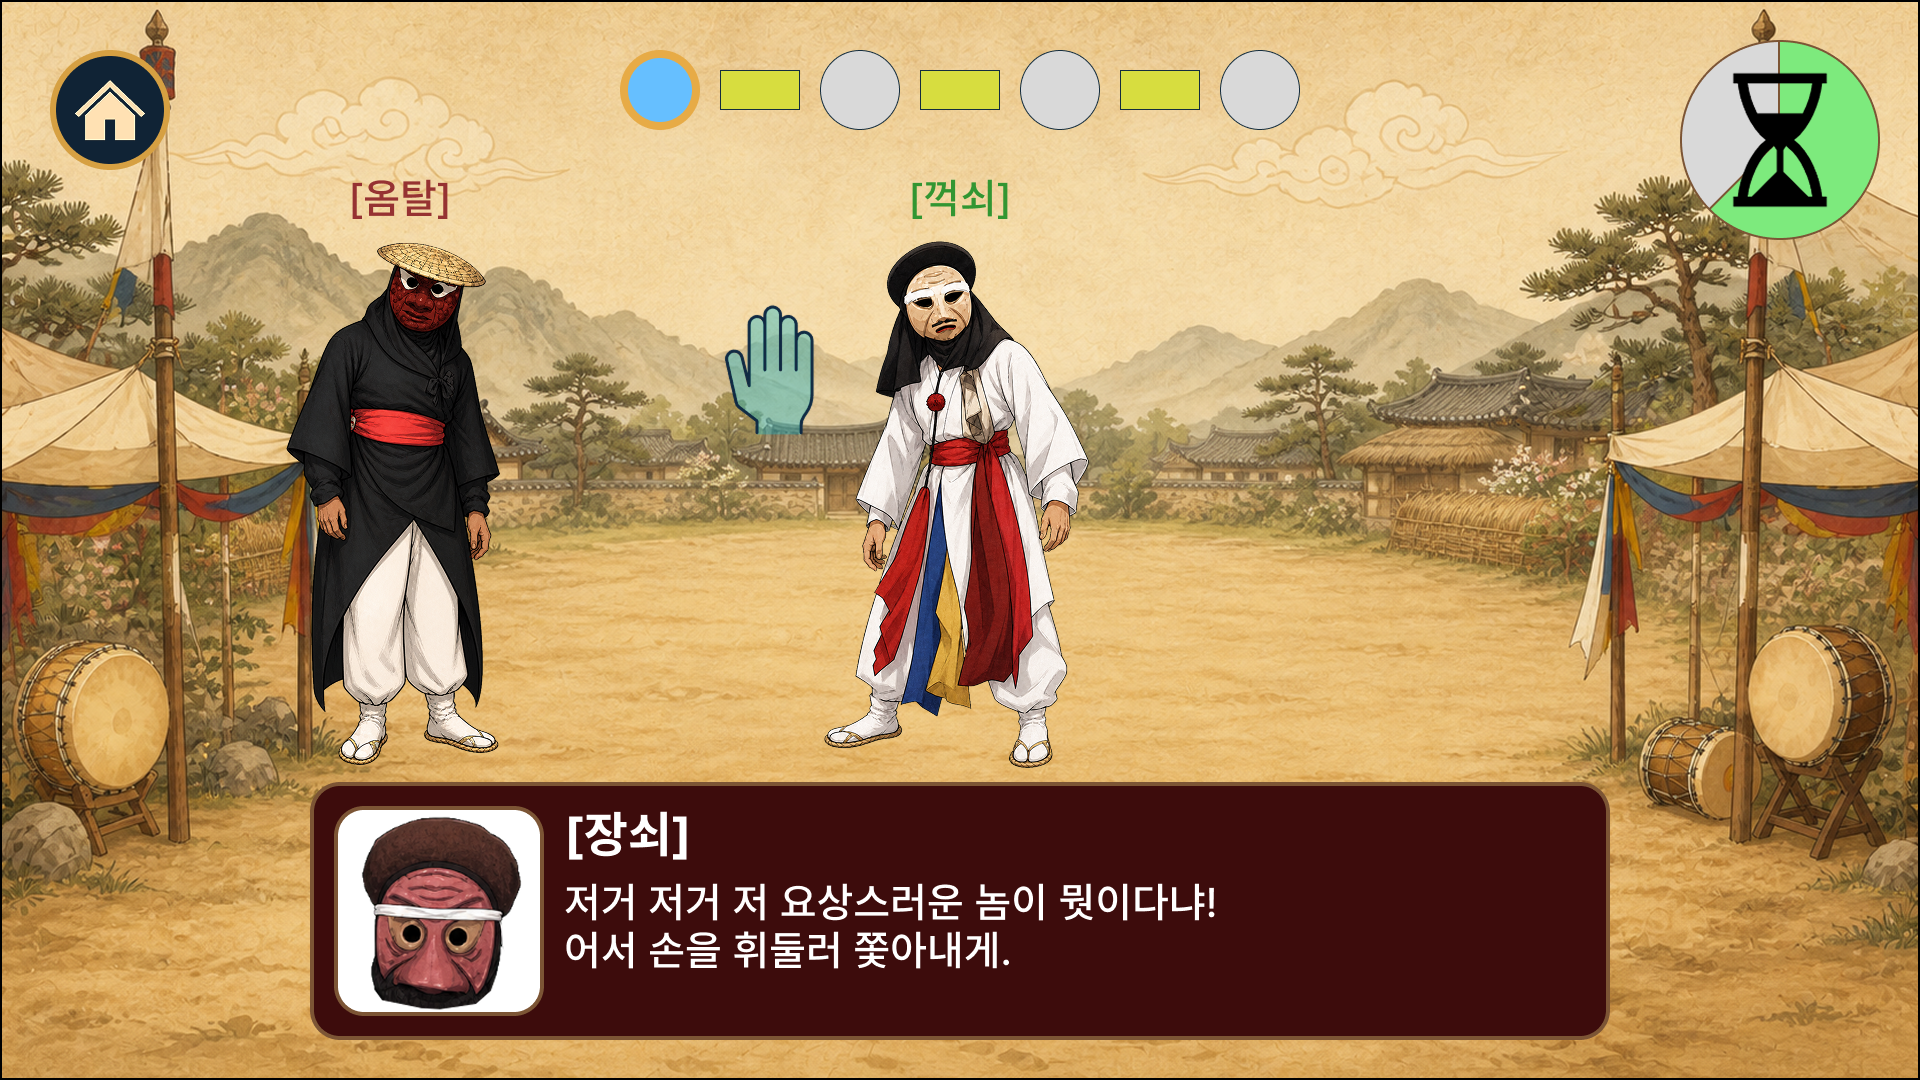
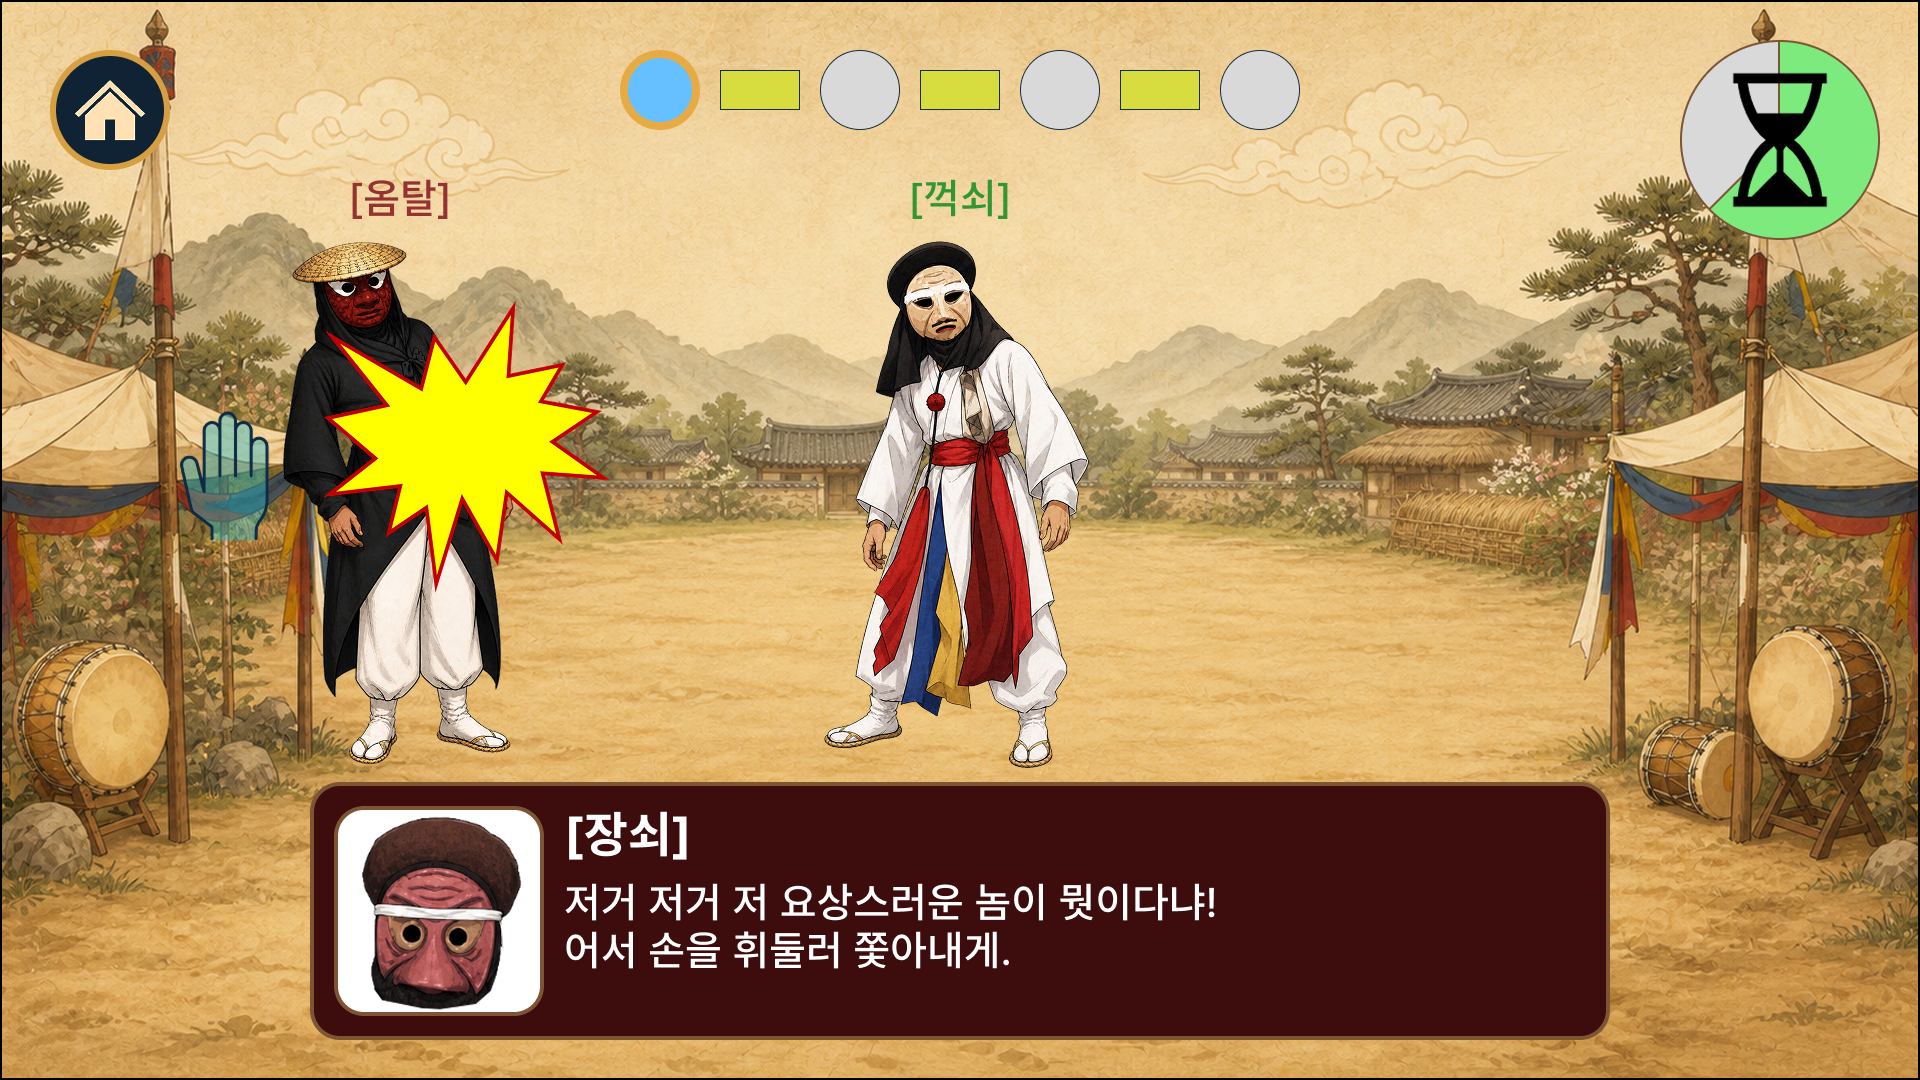
update: 작업 산출물과 이미지 자산 반영

Changed region(s): [[0.0938, 0.2139, 0.3125, 0.7028], [0.375, 0.275, 0.4375, 0.3972]]

diff --git a/05_산출물/킥오프/무형문화유산 AI 과제 킥오프.md b/05_산출물/킥오프/무형문화유산 AI 과제 킥오프.md
@@ -5,7 +5,7 @@ status: draft
 tags: [project, kocca, 킥오프, 발표, 셀빅, 1차연도, 2차연도]
 sources: [2. 연구개발의 목표 및 내용, 4. 마일스톤 체계 및 수행계획, 컨소시엄 회의록 - 2026-06-22, 큐랩셀빅 사전회의 - 2026-06-22, 1차연도 셀빅 개발 준비자료]
 created: 2026-07-01
-updated: 2026-07-01
+updated: 2026-09-11
 ---
 
 > 셀빅 사내 킥오프 발표 문서. 무형문화유산 AI 과제가 무엇이고, 셀빅이 2년(1단계)에 걸쳐 무엇을 어떤 기술로 언제 만들지를 정리함.
@@ -57,14 +57,14 @@ center "지능형 4D 디지털 도제 플랫폼"
 
 5개 연구기관과 외부 데이터 권리자로 구성됨. 셀빅은 남사당놀이를 전담하되, 핵심 AI 일부는 다른 기관이 만든 결과를 받아 씀 ([[컨소시엄 구성 개요]]).
 
-| 기관 | 구분 | 과제 내 역할 |
-|---|---|---|
-| ㈜큐랩 | 주관 | 플랫폼 통합 총괄, 동작 인식 엔진, 택견 전담, 사업화 총괄 |
-| ㈜셀빅 | 공동1 | **남사당놀이 전담**, 생성형 서사, 아바타 제어, 실감 체험 플랫폼 |
-| KETI(한국전자기술연구원) | 공동2 | 멀티모달 데이터, 4D 복원, 특징 추출, 모션 생성, 특화 LLM |
-| 연세대학교 | 공동3 | 단일 RGB 영상 3D 스켈레톤 추정, 모델 경량화 |
-| 용인대학교 | 공동4 | 택견 IP와 학습용 데이터셋 |
-| 남사당놀이보존회 | 외부 협력 | 남사당 원천 데이터 권리자. 컨소시엄 미포함, 셀빅의 협의 대상 |
+| 기관              | 구분    | 과제 내 역할                                 |
+| --------------- | ----- | --------------------------------------- |
+| ㈜큐랩             | 주관    | 플랫폼 통합 총괄, 동작 인식 엔진, 택견 전담, 사업화 총괄      |
+| ㈜셀빅             | 공동1   | **남사당놀이 전담**, 생성형 서사, 아바타 제어, 실감 체험 플랫폼 |
+| KETI(한국전자기술연구원) | 공동2   | 멀티모달 데이터, 4D 복원, 특징 추출, 모션 생성, 특화 LLM   |
+| 연세대학교           | 공동3   | 단일 RGB 영상 3D 스켈레톤 추정, 모델 경량화            |
+| 용인대학교           | 공동4   | 택견 IP와 학습용 데이터셋                         |
+| 남사당놀이보존회        | 외부 협력 | 남사당 원천 데이터 권리자. 컨소시엄 미포함, 셀빅의 협의 대상     |
 
 - **협력 기관 제공 기술 [확정]**: 영상에서 3D 스켈레톤 추출은 연세대, 특징 추출과 모션 생성은 KETI가 맡음 ([[컨소시엄 회의록 - 2026-06-22#3.2 데이터와 LLM 역할]])
 - **회의 주기 [확정]**: 반기 1회 대면. 필요 시 별도 실무 회의 ([[컨소시엄 회의록 - 2026-06-22#2. 핵심 합의]])

diff --git a/99_Logs/log.md b/99_Logs/log.md
@@ -7,6 +7,16 @@ updated: 2026-09-11
 
 # 작업 로그
 
+## [2026-09-11] update | 미커밋 산출물과 이미지 자산 일괄 반영
+
+- 사용자가 작업 트리에 남아 있는 변경사항을 모두 커밋하고 `origin/main`에 푸시하도록 요청함
+- 사용자 작성 산출물 2개, 수정 이미지 3개, 새 꼭두각시 이미지 7개와 `90_Temp/중단 후 콘솔 기록.txt`를 일괄 반영 대상으로 확정함
+- 커밋 전 자격증명 형태를 검색해 발견 0건이며, 개별 파일은 모두 3.2MB 이하임
+- 커밋 훅이 두 산출물 문서의 과거 `updated` 날짜를 차단하여 본문은 바꾸지 않고 `updated`만 2026-09-11로 갱신함
+- 산출물 본문은 사용자가 작성한 내용을 그대로 보존하고 별도 검수하지 않음
+- 자동 검사 결과: 넘버링 어긋남 0건, lint 오류 0건, 인용 어긋남 0건. 기존 경고 16건과 전사본 미지정 건너뜀 7건은 새로 생기지 않음
+- 수정 및 추가 파일: `05_산출물/시범콘텐츠/06_덜미 - 나만의 꼭두각시/덜미 - 나만의 꼭두각시 초안.md`, `05_산출물/킥오프/무형문화유산 AI 과제 킥오프.md`, `90_Temp/중단 후 콘솔 기록.txt`, `assets/시범콘텐츠/꼭두각시/` 이미지 7개, `assets/시범콘텐츠/탈놀음/` 이미지 2개, `assets/킥오프/1_2_컨소시엄과역할_v3.png`, `99_Logs/log.md`
+
 ## [2026-09-11] review | 역할 분리 12단계 외부 검수 판정
 
 - 사용자가 역할 분리 12단계 외부 검수 F-01부터 F-03까지의 반려를 G2 최종 판정으로 확정함. 수용 0건, 반려 3건이며 외부 검수 발견에 따른 본문 수정은 없음

diff --git a/05_산출물/시범콘텐츠/06_덜미 - 나만의 꼭두각시/덜미 - 나만의 꼭두각시 초안.md b/05_산출물/시범콘텐츠/06_덜미 - 나만의 꼭두각시/덜미 - 나만의 꼭두각시 초안.md
@@ -4,5 +4,41 @@ type: project
 status: draft
 tags: [project, kocca, 시범콘텐츠, 덜미]
 created: 2026-09-03
-updated: 2026-09-03
+updated: 2026-09-11
 ---
+dhl모션 연동 시스템
+
+- Why
+	- 남사당놀이 덜미 체험 콘텐츠 개발
+		- 무형문화유산의 형식과 포함된 의미를 사용자와 실시간으로 상호작용하며 체험 및 학습할 수 있어야 함
+- How
+	- 조작 체험이 아닌 조작 원리 학습
+		- 핸드 트래킹만으로는 조작 체험 어려움
+			- 손이 겹치며 손동작이 작음
+-  What
+	- 유저의 동작을 외형 인형과 동작 인형에 연동하는 모션 연동 시스템
+
+콘텐츠
+
+- 덜미는 덧뵈기와 달리 옴니버스식 구성이 아니라 주인공과 반복 등장인물을 공유하는 연쇄형 에피소드극
+- 현실의 고통과 억압을 과장하고 뒤엎기
+- 원초적 욕망이 자유롭게 허용되는 세계를 웃음으로 처리
+	- 박첨지는 바람을 피우고
+	- 상좌는 파계하고
+	- 홍동지는 벌거벗고 날뛰고
+	- 평안감사는 권력을 남용하고
+	- 사람들은 싸우고 욕하고 속이고
+	- 이시미는 사람을 잡아먹고
+- 죽음 이후의 해원, 종교적 귀의, 마지막에는 그것마저 해체하는 결말
+
+- 유저는 이 안에서 무엇을 할 수 있는가?
+	- 이동, 몸 기울이기, 팔 휘두르기
+
+- 꼭두각시 - 덜머리집 싸움
+	- 싸움 도중 불씨가 집에 옮겨 붙음
+- 재산 분배
+	- 집 안 살림 아이콘이 밖으로 튀어나옴
+- 노잣돈
+	- 남은 재산 중 엽전 꾸러미 등장
+- 박첨지 울음
+	- 잿더미가 된 집 앞에서 박첨지 울음
